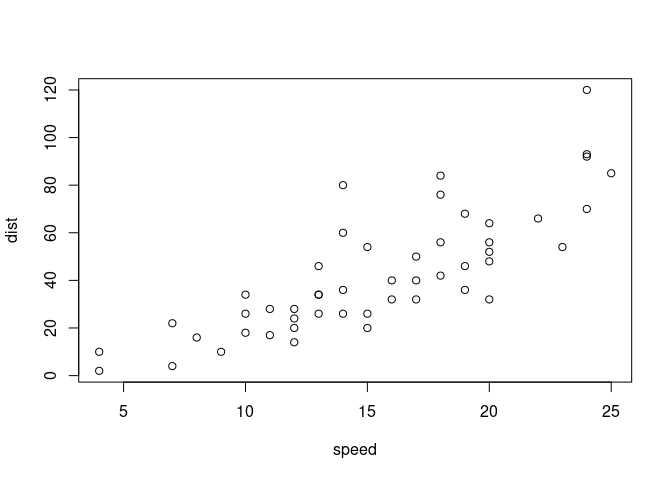
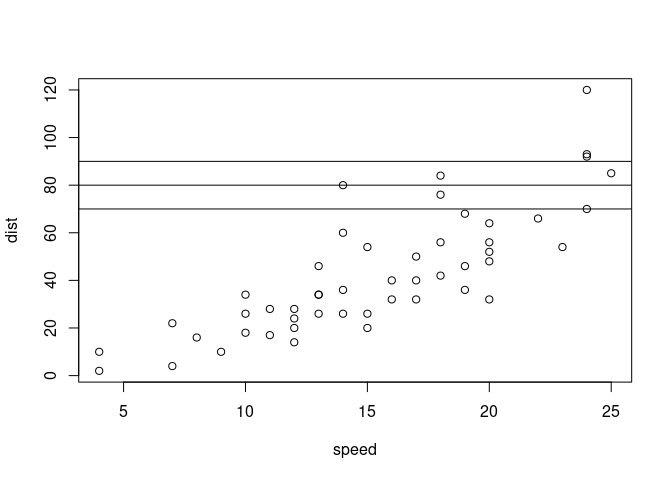
add horizontal lines

Changed region(s): [[0.125, 0.375, 0.9375, 0.4375], [0.125, 0.3125, 0.9375, 0.3438]]

diff --git a/my_first_rmarkdown_for_github.md b/my_first_rmarkdown_for_github.md
@@ -1,7 +1,7 @@
 ---
 title: "My First RMarkdown for GitHub!"
 author: "MikeLyons"
-date: "2022-12-23"
+date: "2022-12-24"
 output: 
   html_document: 
     keep_md: yes
@@ -33,6 +33,7 @@ summary(cars)
 
 ```r
 plot(cars)
+abline(a = 80, b = 0, h = c(90, 70))
 ```
 
 ![](my_first_rmarkdown_for_github_files/figure-html/unnamed-chunk-1-1.png)<!-- -->
